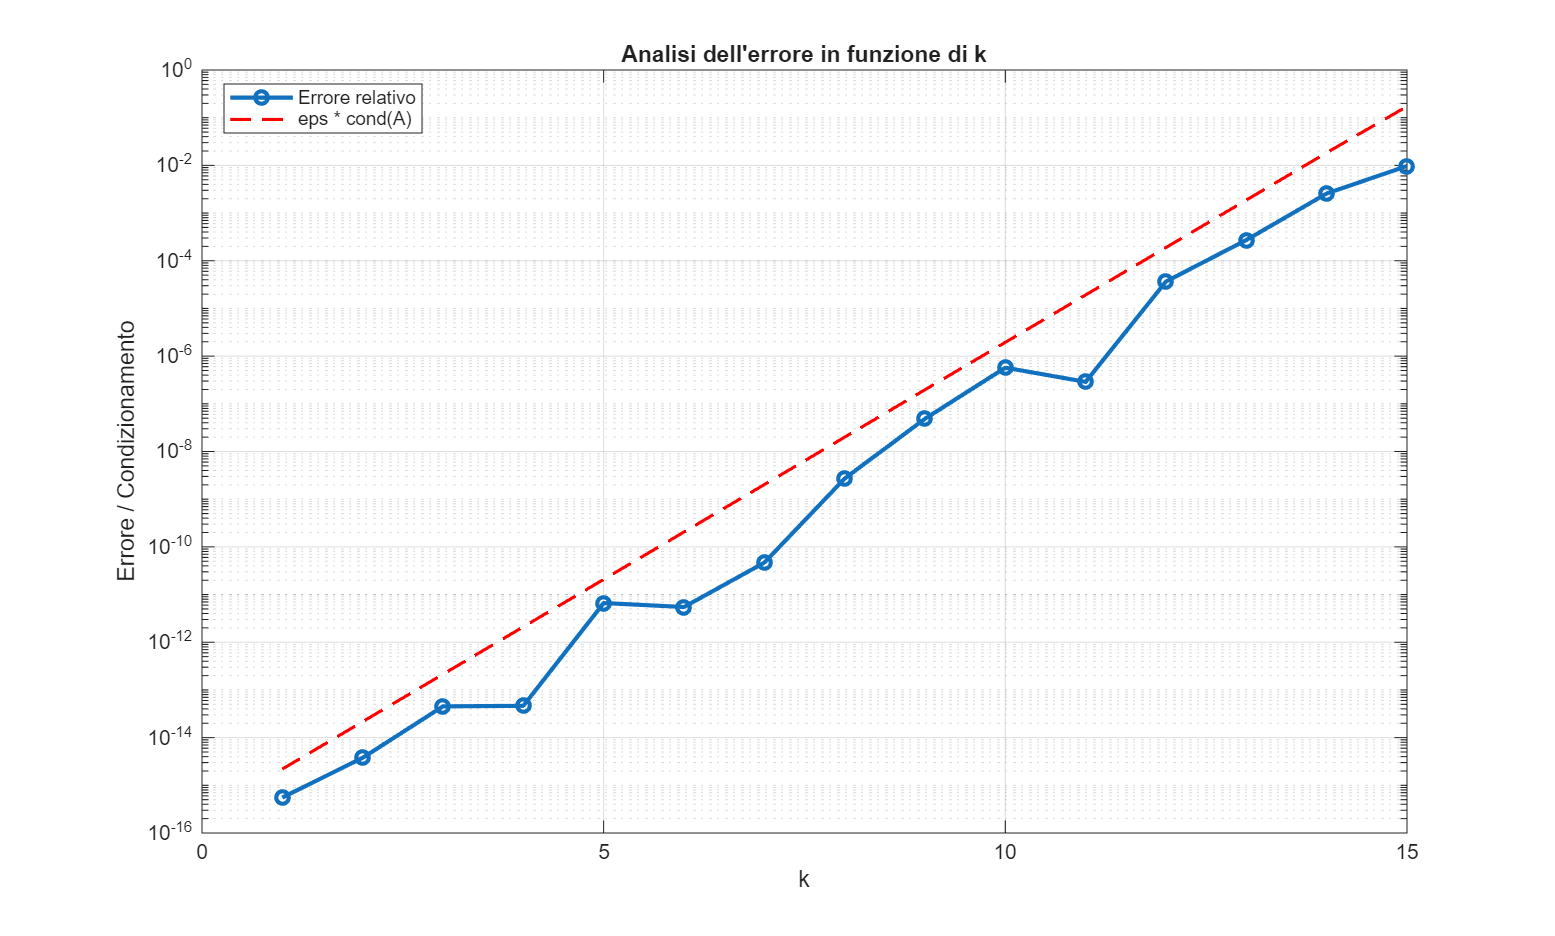
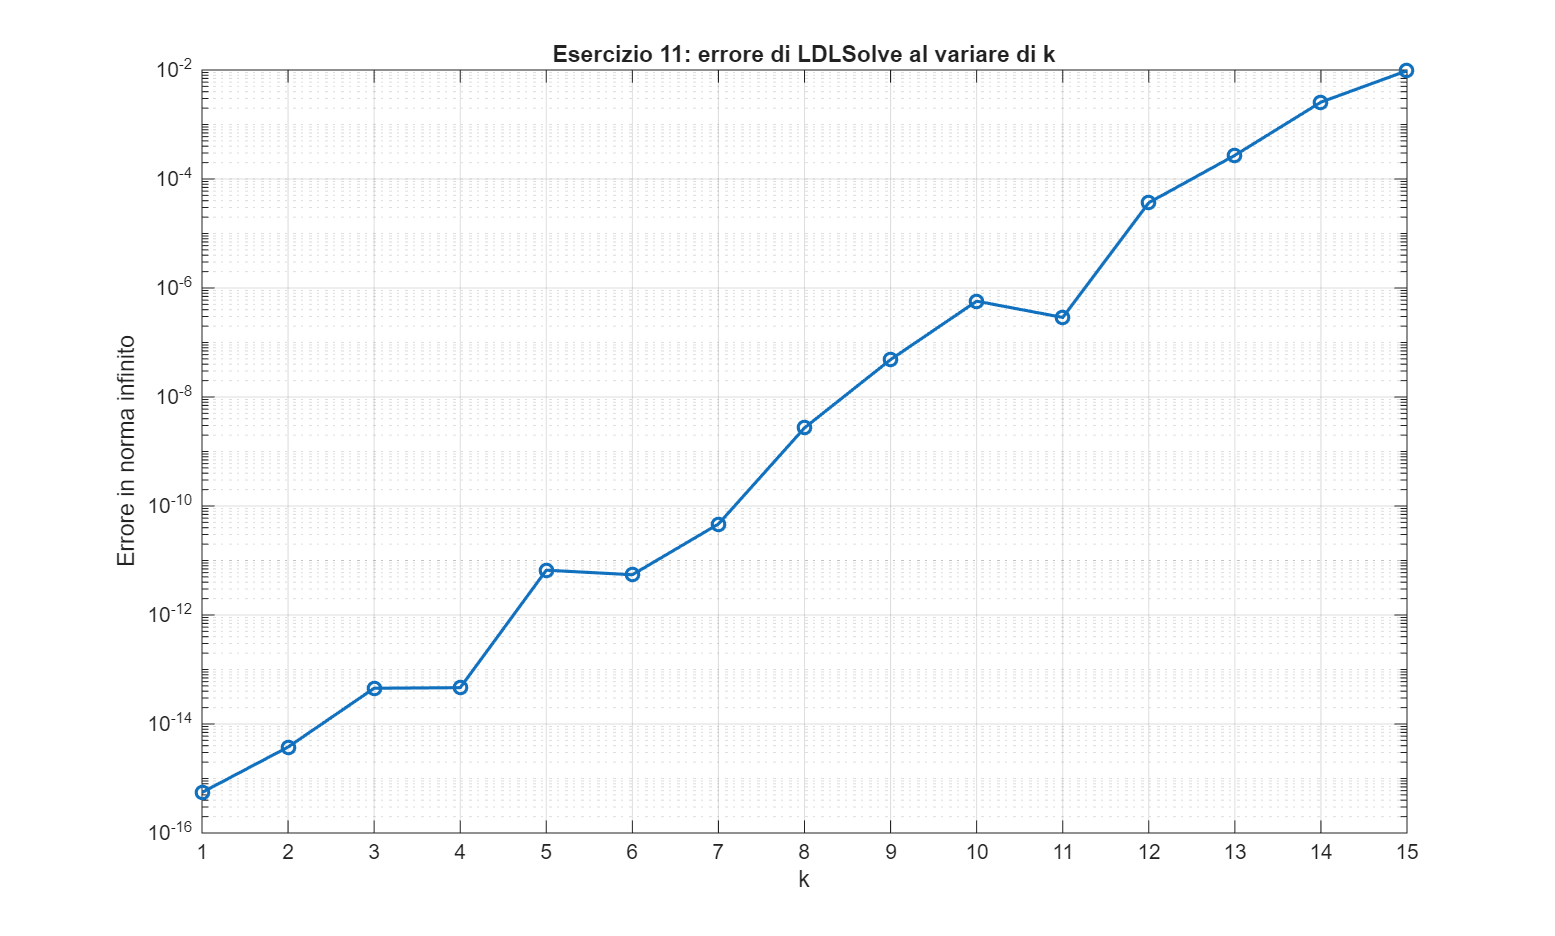
ES.11: rifare l'esercizio

diff --git a/codice-matlab/test_es11.m b/codice-matlab/test_es11.m
@@ -1,51 +1,39 @@
-% script test_es11.m
-% risoluzione di sistemi lineari con matrice sdp generati da linsis.m
-% n = 10, k = 1:15
+% script per l'esercizio 11
+% risoluzione dei sistemi s.d.p. generati da linsis.m con LDLSolve.m
+
+clear;
+clc;
+close all;
 
 n = 10;
-ks = 1:15;
-errs = zeros(size(ks));
-conds = zeros(size(ks));
-x_e = ones(n, 1);
+k_vals = (1:15).';
+x_esatta = ones(n, 1);
 
-fprintf('k \t cond(A, 2) \t errore (rel)\n');
-fprintf('-------------------------------------------\n');
+sigma = zeros(size(k_vals));
+err_inf = zeros(size(k_vals));
+cond2 = zeros(size(k_vals));
 
-for i = 1:length(ks)
-    k = ks(i);
-    [A, b] = linsis(n, k, 1); % matrice SPD
+for idx = 1:length(k_vals)
+    k = k_vals(idx);
+    [A, b] = linsis(n, k, 1);
 
-    try
-        x = LDLSolve(A, b);
-        errs(i) = norm(x - x_e) / norm(x_e);
-    catch ME
-        fprintf('Errore per k=%d: %s\n', k, ME.message);
-        errs(i) = NaN;
-    end
+    x = LDLSolve(A, b);
 
-    conds(i) = cond(A);
-    fprintf('%d \t %.2e \t %.2e\n', k, conds(i), errs(i));
+    sigma(idx) = pi^(-2 * k);
+    err_inf(idx) = norm(x - x_esatta, inf);
+    cond2(idx) = cond(A);
 end
 
-% Plotting results
-figure;
-semilogy(ks, errs, '-o', ...
-    'LineWidth', 1.5, 'Color', [0.2 0.2 0.8], ...
-    'MarkerFaceColor', [0.2 0.2 0.8], ...
-    'DisplayName', 'Errore relativo $\|x - x_e\|_2 / \|x_e\|_2$');
-hold on;
+T = table(k_vals, sigma, cond2, err_inf, ...
+    'VariableNames', {'k', 'sigma', 'cond2', 'err_inf'});
 
-% Limite teorico: cond(A) * eps
-semilogy(ks, conds * eps, '--r', ...
-    'LineWidth', 1.2, ...
-    'DisplayName', 'Limite teorico $\mathrm{cond}_2(A)\cdot\varepsilon_{\mathrm{mach}}$');
+disp(T);
 
-hold off;
-
-xlim([1 15]);
+f = figure;
+semilogy(k_vals, err_inf, 'o-', 'LineWidth', 1.5, 'MarkerSize', 6);
 grid on;
-set(gca, 'XTick', ks, 'TickLabelInterpreter', 'latex');
-xlabel('Parametro $k$', 'Interpreter', 'latex');
-ylabel('Valore (scala logaritmica)', 'Interpreter', 'latex');
-title('Errore e limite teorico (SPD) al variare di $k$ ($n=10$)', 'Interpreter', 'latex');
-legend('Location', 'northwest', 'Interpreter', 'latex');
+xlim([1 15]);
+xticks(1:15);
+xlabel('k');
+ylabel('Errore in norma infinito');
+title('Esercizio 11: errore di LDLSolve al variare di k');

diff --git a/codice-matlab/LUSolve.m b/codice-matlab/LUSolve.m
@@ -27,7 +27,7 @@ b = b(:);
 
 % fattorizzazione LU con pivoting parziale (in-place)
 p = 1:n;
-tol = n * eps * norm(A, inf);
+tol = n * eps * norm(A, 1);
 
 for i = 1:n
     % ricerca del pivot sulla colonna i
